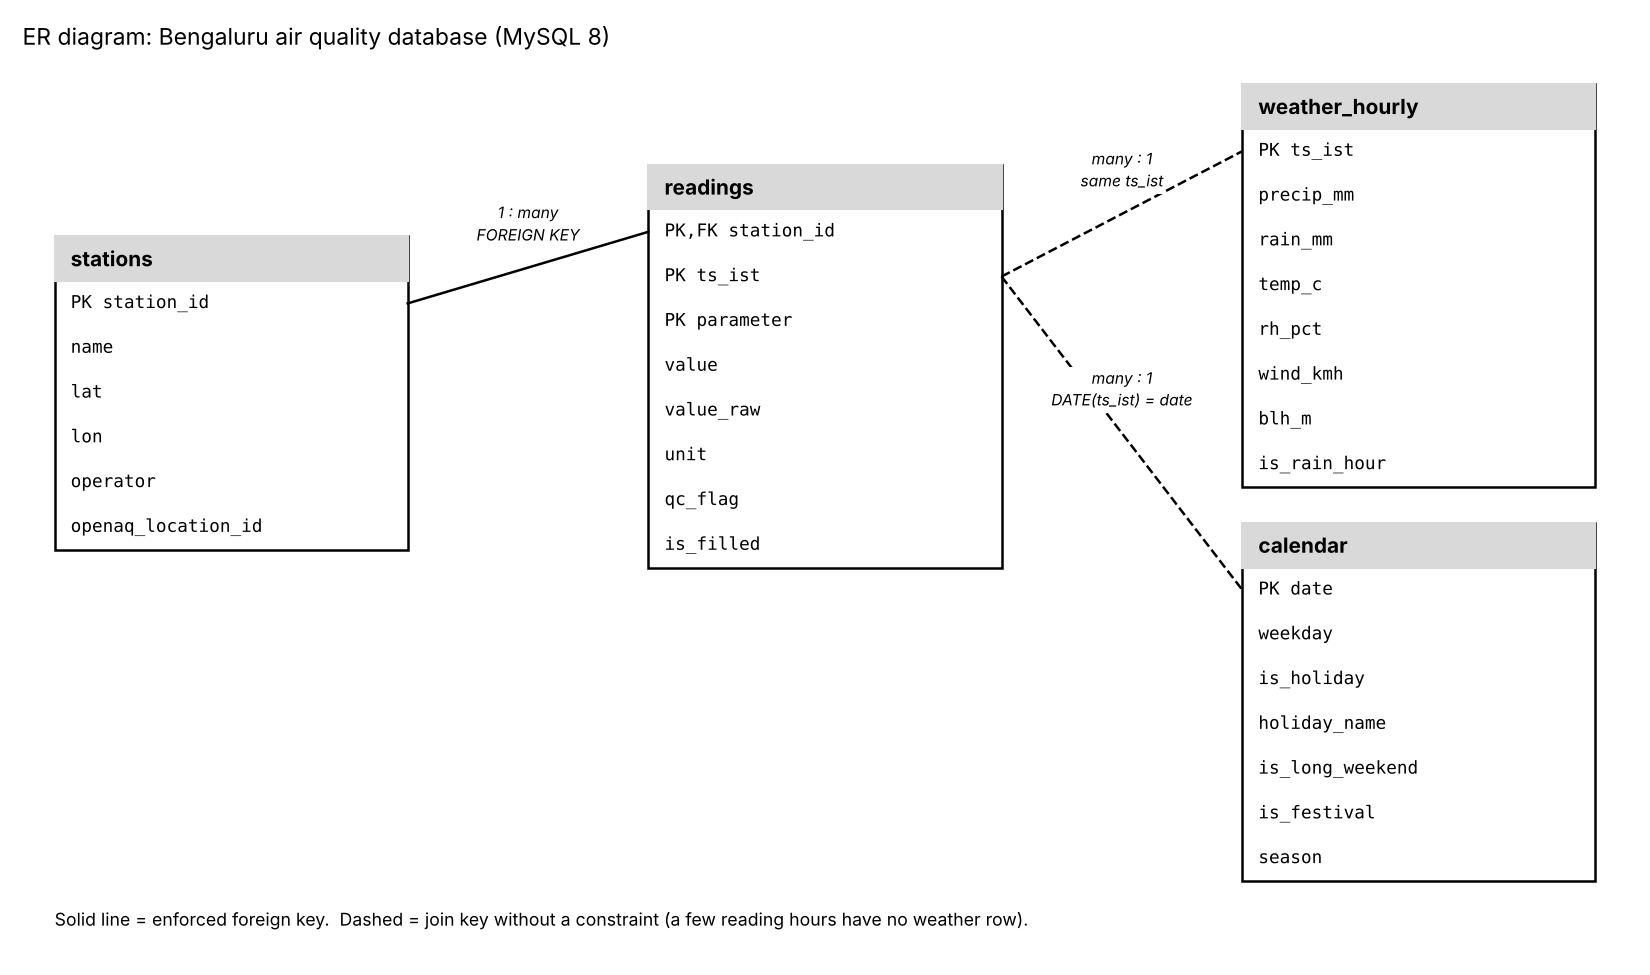
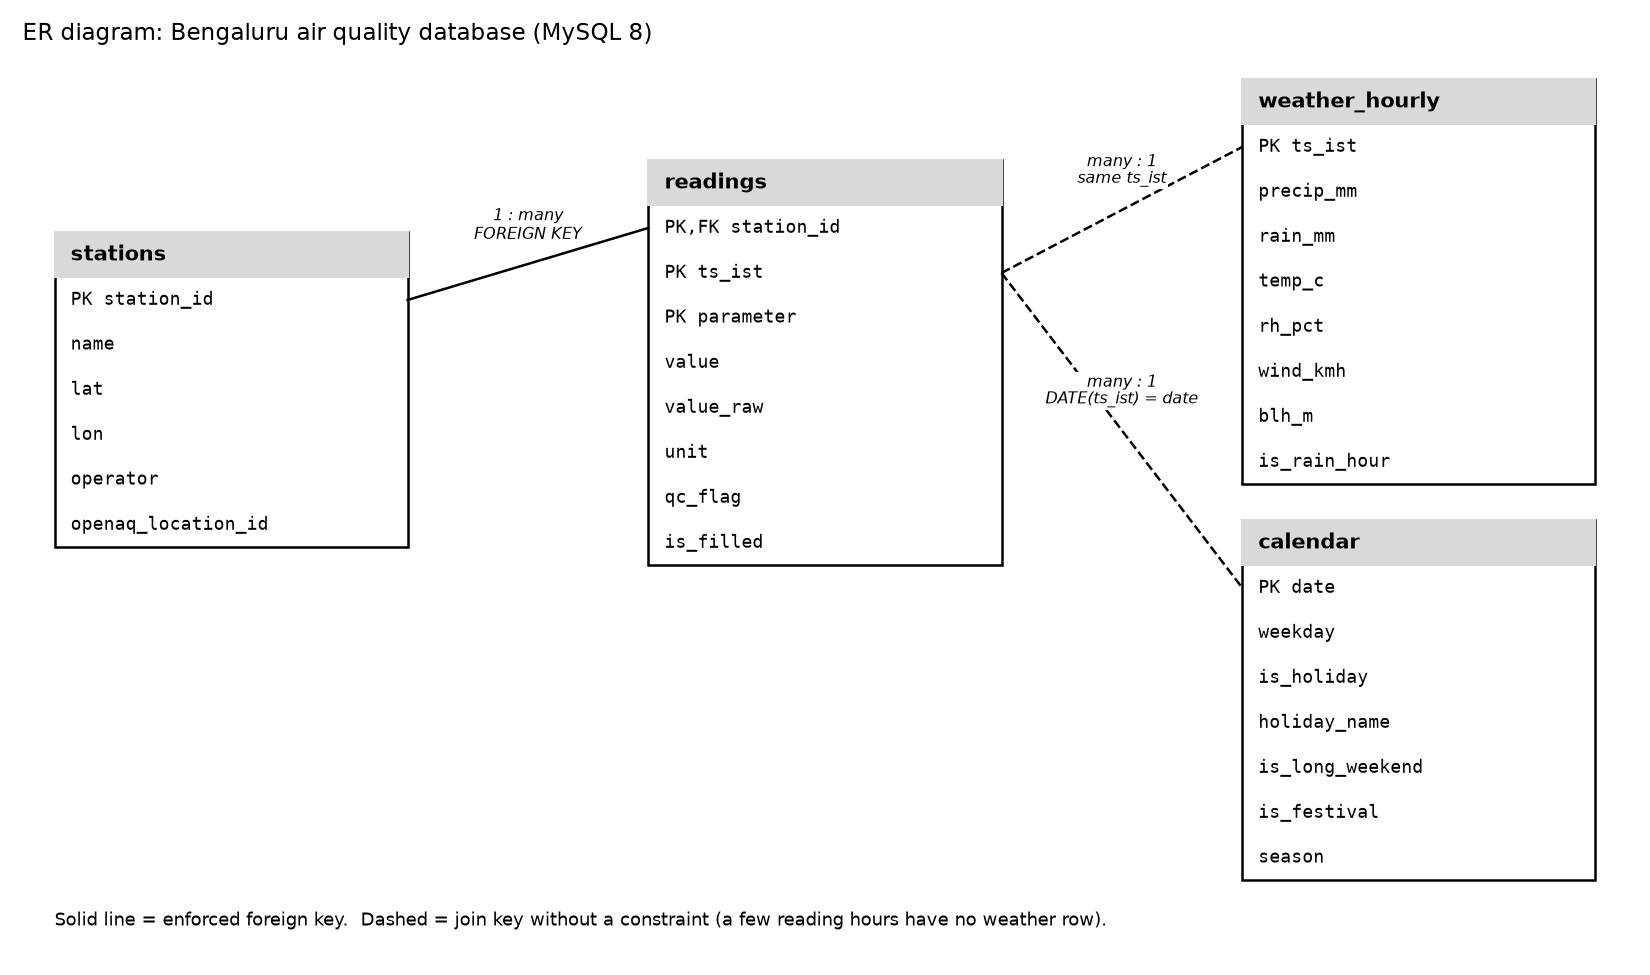
Load MySQL, ER diagram, SQL query outputs

diff --git a/outputs/tables/sql_query_outputs.md b/outputs/tables/sql_query_outputs.md
@@ -1,0 +1,225 @@
+# SQL query outputs (from sql/queries.sql, run by 09_load_mysql.py)
+
+## Q1: How big is each table? (the V profile quotes these numbers)
+
+```sql
+SELECT 'stations' AS table_name, COUNT(*) AS n_rows FROM stations
+UNION ALL SELECT 'readings', COUNT(*) FROM readings
+UNION ALL SELECT 'weather_hourly', COUNT(*) FROM weather_hourly
+UNION ALL SELECT 'calendar', COUNT(*) FROM calendar
+```
+
+| table_name     |   n_rows |
+|:---------------|---------:|
+| stations       |        7 |
+| readings       |   279552 |
+| weather_hourly |     9984 |
+| calendar       |      416 |
+
+## Q2: Gaps per station (JOIN + GROUP BY). How many PM2.5 hours have no usable value?
+
+```sql
+SELECT s.name,
+       COUNT(*)                                          AS hours_in_range,
+       SUM(r.value IS NULL)                              AS hours_without_value,
+       ROUND(100 * SUM(r.value IS NULL) / COUNT(*), 1)   AS pct_without_value
+FROM readings AS r
+JOIN stations AS s ON s.station_id = r.station_id
+WHERE r.parameter = 'pm25'
+GROUP BY s.name
+ORDER BY pct_without_value DESC
+```
+
+| name                                   |   hours_in_range |   hours_without_value |   pct_without_value |
+|:---------------------------------------|-----------------:|----------------------:|--------------------:|
+| Peenya, Bengaluru - CPCB               |             9984 |                  4097 |                41   |
+| BTM Layout, Bengaluru - CPCB           |             9984 |                  2884 |                28.9 |
+| Bapuji Nagar, Bengaluru - KSPCB        |             9984 |                  2519 |                25.2 |
+| Silk Board, Bengaluru - KSPCB          |             9984 |                  1604 |                16.1 |
+| Hebbal, Bengaluru - KSPCB              |             9984 |                  1540 |                15.4 |
+| Hombegowda Nagar, Bengaluru - KSPCB    |             9984 |                  1132 |                11.3 |
+| Jayanagar 5th Block, Bengaluru - KSPCB |             9984 |                   966 |                 9.7 |
+
+## Q3: The heatmap in SQL (GROUP BY hour x weekday). Mean PM2.5 for each weekday
+
+```sql
+SELECT WEEKDAY(r.ts_ist)        AS weekday_num,
+       DAYNAME(r.ts_ist)        AS weekday,
+       HOUR(r.ts_ist)           AS hour_ist,
+       ROUND(AVG(r.value), 1)   AS mean_pm25,
+       COUNT(r.value)           AS n_station_hours
+FROM readings AS r
+WHERE r.parameter = 'pm25'
+  AND r.value IS NOT NULL
+  AND HOUR(r.ts_ist) BETWEEN 17 AND 23
+GROUP BY weekday_num, weekday, hour_ist
+ORDER BY weekday_num, hour_ist
+```
+
+|   weekday_num | weekday   |   hour_ist |   mean_pm25 |   n_station_hours |
+|--------------:|:----------|-----------:|------------:|------------------:|
+|             0 | Monday    |         17 |        29.7 |               315 |
+|             0 | Monday    |         18 |        33.2 |               323 |
+|             0 | Monday    |         19 |        37.1 |               327 |
+|             0 | Monday    |         20 |        39   |               326 |
+|             0 | Monday    |         21 |        39.7 |               320 |
+|             0 | Monday    |         22 |        39.9 |               324 |
+|             0 | Monday    |         23 |        37.4 |               319 |
+|             1 | Tuesday   |         17 |        30.6 |               339 |
+|             1 | Tuesday   |         18 |        32.5 |               334 |
+|             1 | Tuesday   |         19 |        35.3 |               331 |
+|             1 | Tuesday   |         20 |        38.1 |               324 |
+|             1 | Tuesday   |         21 |        39.2 |               321 |
+|             1 | Tuesday   |         22 |        39.1 |               321 |
+|             1 | Tuesday   |         23 |        37.1 |               321 |
+|             2 | Wednesday |         17 |        30.5 |               348 |
+|             2 | Wednesday |         18 |        32.5 |               353 |
+|             2 | Wednesday |         19 |        33.9 |               354 |
+|             2 | Wednesday |         20 |        35.9 |               354 |
+|             2 | Wednesday |         21 |        35.3 |               351 |
+|             2 | Wednesday |         22 |        33.8 |               352 |
+|             2 | Wednesday |         23 |        32.2 |               343 |
+|             3 | Thursday  |         17 |        27.9 |               341 |
+|             3 | Thursday  |         18 |        30   |               338 |
+|             3 | Thursday  |         19 |        32.8 |               336 |
+|             3 | Thursday  |         20 |        34.2 |               336 |
+|             3 | Thursday  |         21 |        33.7 |               334 |
+|             3 | Thursday  |         22 |        33   |               340 |
+|             3 | Thursday  |         23 |        32.6 |               337 |
+|             4 | Friday    |         17 |        28.3 |               350 |
+|             4 | Friday    |         18 |        32.4 |               350 |
+
+## Q4: Rainy vs dry evening hours (readings JOIN weather_hourly). Mean PM2.5 by IST
+
+```sql
+SELECT HOUR(r.ts_ist)          AS hour_ist,
+       w.is_rain_hour,
+       ROUND(AVG(r.value), 1)  AS mean_pm25,
+       COUNT(r.value)          AS n_station_hours
+FROM readings AS r
+JOIN weather_hourly AS w ON w.ts_ist = r.ts_ist
+WHERE r.parameter = 'pm25'
+  AND r.value IS NOT NULL
+  AND HOUR(r.ts_ist) BETWEEN 17 AND 23
+GROUP BY hour_ist, w.is_rain_hour
+ORDER BY hour_ist, w.is_rain_hour
+```
+
+|   hour_ist |   is_rain_hour |   mean_pm25 |   n_station_hours |
+|-----------:|---------------:|------------:|------------------:|
+|         17 |              0 |        32.8 |              1687 |
+|         17 |              1 |        20.5 |               642 |
+|         18 |              0 |        34.5 |              1911 |
+|         18 |              1 |        20.8 |               428 |
+|         19 |              0 |        37.3 |              1977 |
+|         19 |              1 |        21.7 |               358 |
+|         20 |              0 |        38.7 |              2057 |
+|         20 |              1 |        22.7 |               260 |
+|         21 |              0 |        38.9 |              2041 |
+|         21 |              1 |        22.7 |               248 |
+|         22 |              0 |        37.4 |              2119 |
+|         22 |              1 |        20.7 |               179 |
+|         23 |              0 |        36.3 |              2023 |
+|         23 |              1 |        22.5 |               280 |
+
+## Q5: Three-table join (readings JOIN weather_hourly JOIN calendar).
+
+```sql
+SELECT c.season,
+       c.is_holiday,
+       w.is_rain_hour,
+       ROUND(AVG(r.value), 1)  AS mean_evening_pm25,
+       COUNT(r.value)          AS n_station_hours
+FROM readings AS r
+JOIN weather_hourly AS w ON w.ts_ist = r.ts_ist
+JOIN calendar       AS c ON c.date = DATE(r.ts_ist)
+WHERE r.parameter = 'pm25'
+  AND r.value IS NOT NULL
+  AND HOUR(r.ts_ist) BETWEEN 17 AND 23
+GROUP BY c.season, c.is_holiday, w.is_rain_hour
+ORDER BY c.season, c.is_holiday, w.is_rain_hour
+```
+
+| season       |   is_holiday |   is_rain_hour |   mean_evening_pm25 |   n_station_hours |
+|:-------------|-------------:|---------------:|--------------------:|------------------:|
+| post_monsoon |            0 |              0 |                39.4 |              3352 |
+| post_monsoon |            0 |              1 |                23.1 |               583 |
+| post_monsoon |            1 |              0 |                41.1 |              1625 |
+| post_monsoon |            1 |              1 |                26.8 |               276 |
+| pre_monsoon  |            0 |              0 |                43.7 |              2121 |
+| pre_monsoon  |            0 |              1 |                30   |               142 |
+| pre_monsoon  |            1 |              0 |                43.8 |              1260 |
+| pre_monsoon  |            1 |              1 |                28.4 |                79 |
+| sw_monsoon   |            0 |              0 |                22   |              2225 |
+| sw_monsoon   |            0 |              1 |                18.3 |               973 |
+| sw_monsoon   |            1 |              0 |                20.6 |              1088 |
+| sw_monsoon   |            1 |              1 |                16.7 |               322 |
+| winter       |            0 |              0 |                42.1 |              1516 |
+| winter       |            0 |              1 |                53.2 |                14 |
+| winter       |            1 |              0 |                39   |               628 |
+| winter       |            1 |              1 |                18.6 |                 6 |
+
+## Q6: The worst festival nights (readings JOIN calendar JOIN stations).
+
+```sql
+SELECT c.date,
+       c.holiday_name,
+       s.name,
+       HOUR(r.ts_ist)  AS hour_ist,
+       r.value_raw     AS pm25,
+       r.qc_flag
+FROM readings AS r
+JOIN calendar AS c ON c.date = DATE(r.ts_ist)
+JOIN stations AS s ON s.station_id = r.station_id
+WHERE r.parameter = 'pm25'
+  AND c.is_festival = 1
+  AND HOUR(r.ts_ist) >= 18
+  AND r.value_raw IS NOT NULL
+ORDER BY r.value_raw DESC
+LIMIT 10
+```
+
+| date       | holiday_name                               | name                                   |   hour_ist |   pm25 | qc_flag             |
+|:-----------|:-------------------------------------------|:---------------------------------------|-----------:|-------:|:--------------------|
+| 2026-11-08 | Naraka Chaturdashi / Deepavali             | Silk Board, Bengaluru - KSPCB          |         21 |    355 | real_event_festival |
+| 2026-11-08 | Naraka Chaturdashi / Deepavali             | Silk Board, Bengaluru - KSPCB          |         22 |    304 | real_event_festival |
+| 2026-11-08 | Naraka Chaturdashi / Deepavali             | Silk Board, Bengaluru - KSPCB          |         23 |    302 | real_event_festival |
+| 2026-11-08 | Naraka Chaturdashi / Deepavali             | Silk Board, Bengaluru - KSPCB          |         20 |    285 | real_event_festival |
+| 2026-11-08 | Naraka Chaturdashi / Deepavali             | Jayanagar 5th Block, Bengaluru - KSPCB |         20 |    251 | real_event_festival |
+| 2026-11-09 | Deepavali (Lakshmi Pooja / Govardhan Puja) | Jayanagar 5th Block, Bengaluru - KSPCB |         20 |    250 | real_event_festival |
+| 2026-11-09 | Deepavali (Lakshmi Pooja / Govardhan Puja) | Jayanagar 5th Block, Bengaluru - KSPCB |         19 |    244 | real_event_festival |
+| 2026-11-09 | Deepavali (Lakshmi Pooja / Govardhan Puja) | Hebbal, Bengaluru - KSPCB              |         21 |    226 | real_event_festival |
+| 2025-10-21 | Deepavali (Lakshmi Pooja / Amavasya)       | Jayanagar 5th Block, Bengaluru - KSPCB |         21 |    221 | real_event_festival |
+| 2026-11-10 | Balipadyami, Deepavali                     | Jayanagar 5th Block, Bengaluru - KSPCB |         22 |    216 | real_event_festival |
+
+## Q7: When does the evening peak happen? (window function, MySQL 8)
+
+```sql
+WITH ranked AS (
+    SELECT r.station_id,
+           DATE(r.ts_ist)  AS day,
+           HOUR(r.ts_ist)  AS hour_ist,
+           ROW_NUMBER() OVER (PARTITION BY r.station_id, DATE(r.ts_ist)
+                              ORDER BY r.value DESC) AS rank_in_evening
+    FROM readings AS r
+    WHERE r.parameter = 'pm25'
+      AND r.value IS NOT NULL
+      AND HOUR(r.ts_ist) BETWEEN 17 AND 23
+)
+SELECT hour_ist      AS peak_hour_ist,
+       COUNT(*)      AS n_station_evenings
+FROM ranked
+WHERE rank_in_evening = 1
+GROUP BY hour_ist
+ORDER BY hour_ist
+```
+
+|   peak_hour_ist |   n_station_evenings |
+|----------------:|---------------------:|
+|              17 |                  326 |
+|              18 |                  226 |
+|              19 |                  311 |
+|              20 |                  468 |
+|              21 |                  400 |
+|              22 |                  306 |
+|              23 |                  387 |
